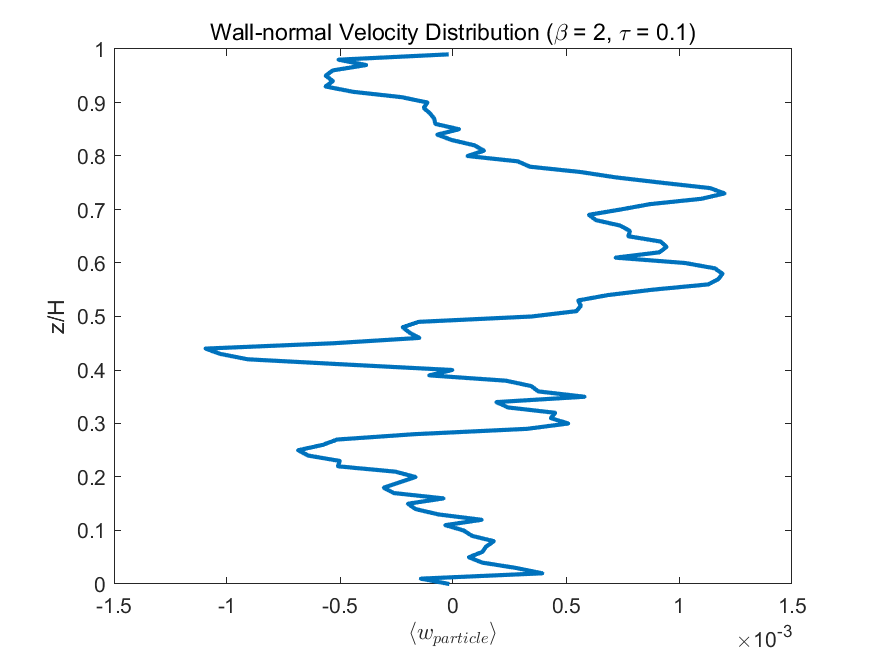
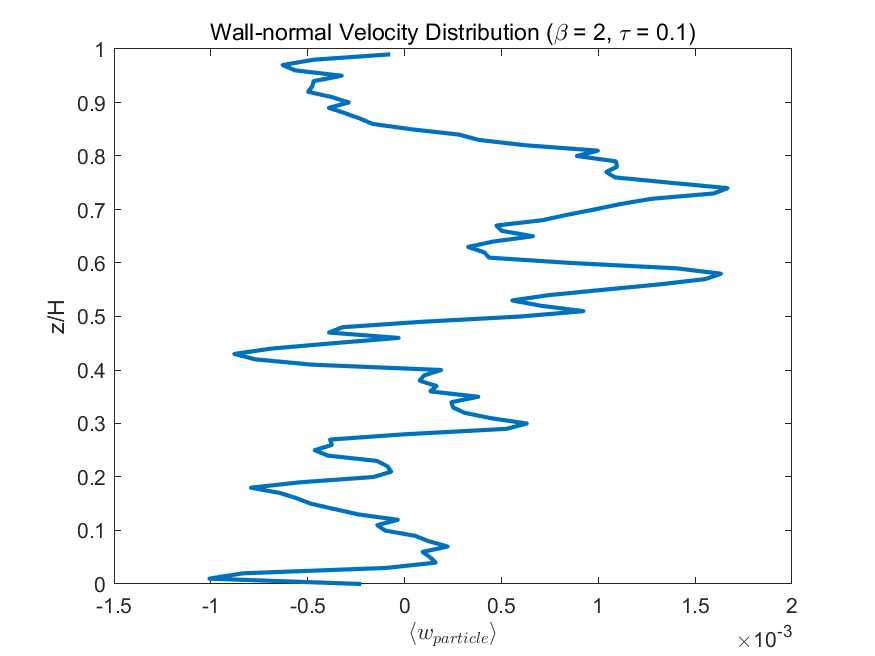
update results

diff --git a/Data_Analysis.m b/Data_Analysis.m
@@ -1,4 +1,4 @@
-beta = 2;
+beta = 2.99;
 tau = 0.01;
 
 filename1 = sprintf('./results/ensembleData_%g_%g.mat', beta, tau);
@@ -126,3 +126,35 @@ title(sprintf('Force Distribution (\\beta = %g, \\tau = %g)', beta, tau));
 legend('Pressure Gradient', 'Drag Force', 'Lift Force');
 
 saveas(gcf, sprintf('./figs/Force_Distribution_%g_%g.png', beta, tau));
+
+
+%% 绘制某个x-z界面的涡量场以及对应的时间平均后的粒子分布
+y_sec = 10;
+
+figure;
+imagesc(x, z, squeeze(omega_y(:,y_sec,:))');
+axis off;
+set(gca, 'Position', [0 0 1 1]); % Remove white borders
+saveas(gcf, sprintf('./figs/Vorticity_image_sec.png'));
+
+%%
+y_phy_sec = y_sec / 60;
+epsilon2 = 0.005;
+figure;
+% 粒子分布
+vorticity_image_sec = imread('./figs/vorticity_image_sec.png');
+h = imagesc(x, z, vorticity_image_sec);
+set(h, 'AlphaData', 1); % 设置透明度为0.5
+caxis([-1 1]); % 设置colorbar数据范围为-1到1
+colorbar; % 添加colorbar来表示涡量大小
+hold on;
+% 绘制xz平面图
+% 绘制y=y_sec处的粒子
+
+indices = find(particle_data(:,2) < y_phy_sec + epsilon2 & particle_data(:,2) > y_phy_sec - epsilon2);
+scatter(particle_data(indices, 1), particle_data(indices, 3), 3, 'MarkerFaceColor', 'k', 'MarkerEdgeColor', 'k', 'MarkerFaceAlpha', 0.25, 'MarkerEdgeAlpha', 0.25);
+xlabel('x/H');
+ylabel('z/H');
+title(sprintf('Particle Distribution in x-z Plane at y = %g (\\beta = %g, \\tau = %g)', y_phy_sec, beta, tau));
+hold off;
+saveas(gcf, sprintf('./figs/Particle_Distribution_xz_sec_%g.png',y_phy_sec));

diff --git a/main.m b/main.m
@@ -10,8 +10,8 @@ dt = 5e-3;         % 时间步长
 rho_c = 1;         % 流体密度
 
 % 无量纲参数
-beta = 2;  
-tau = 0.1;  % 弛豫时间tau(Stokes Number)
+beta = 2.99;  
+tau = 0.01;  % 弛豫时间tau(Stokes Number)
 
 % lambda = 400;        % 参数lambda
 % D = 0.001;          % 几何尺寸相关参数
